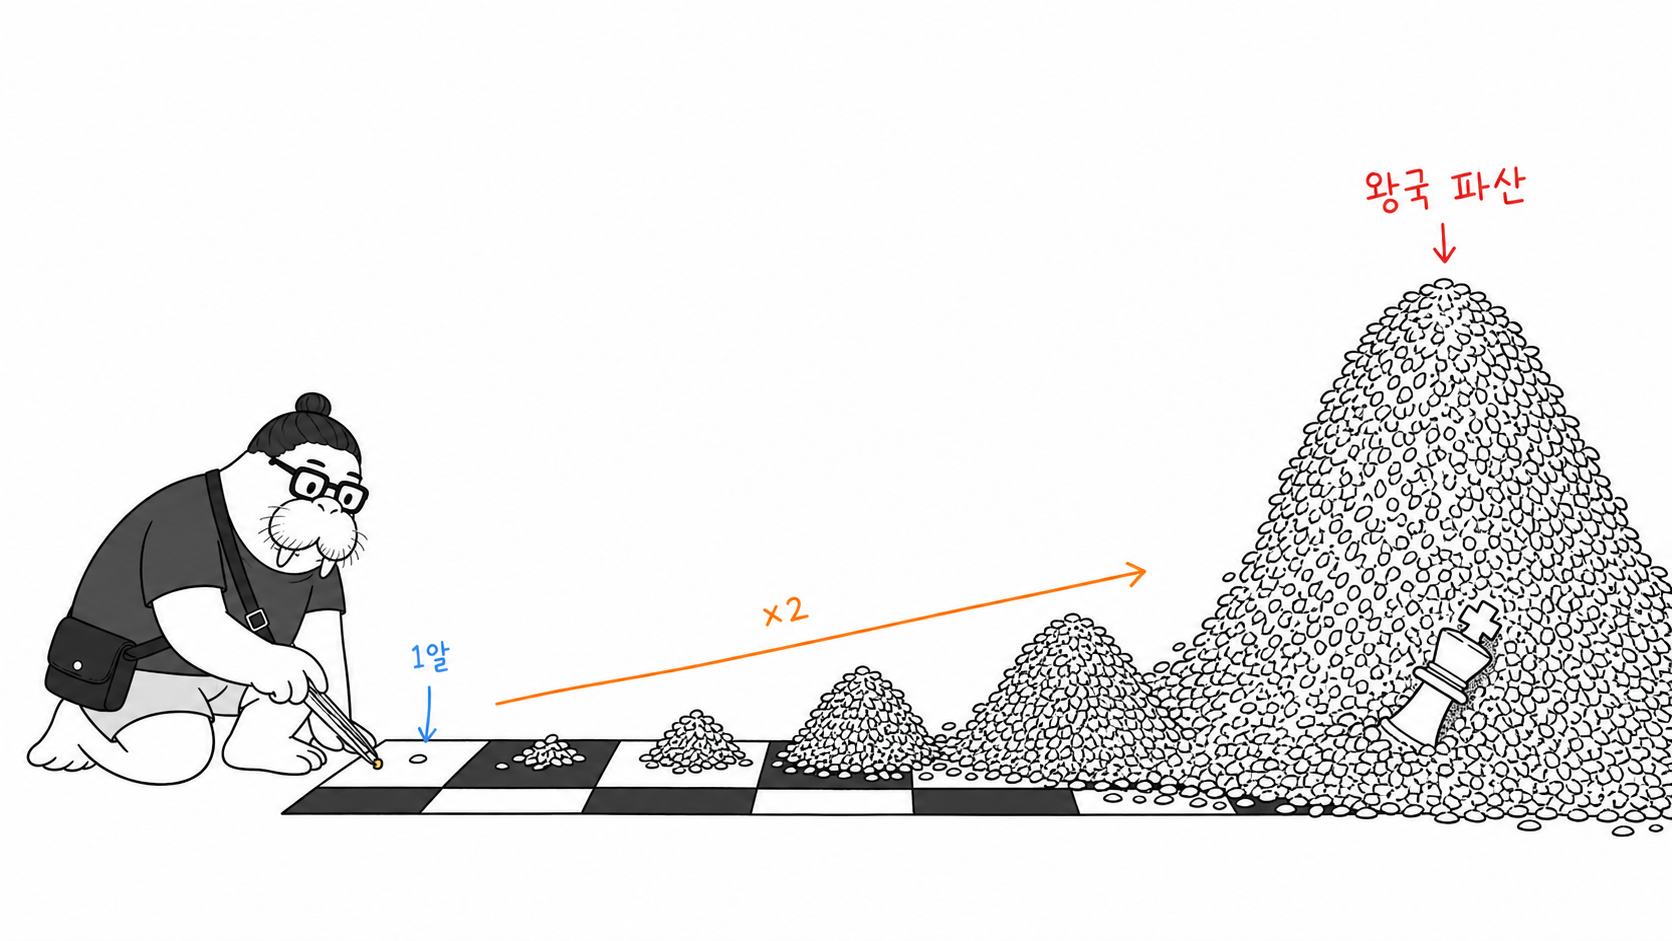
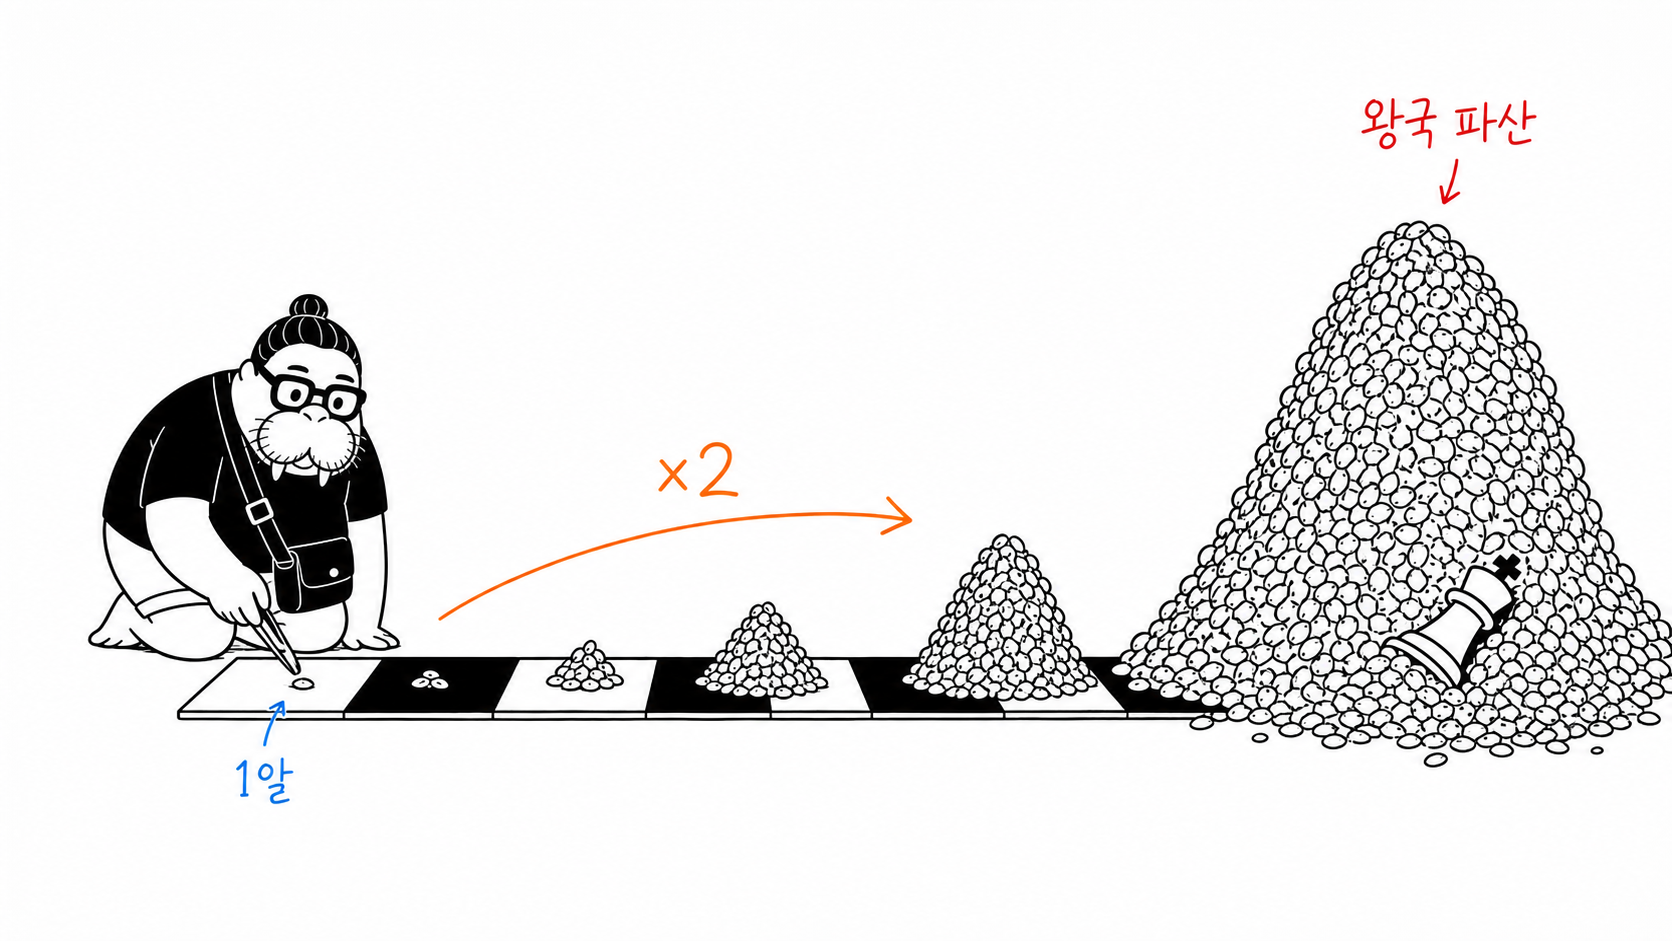
dkdk-illustrations: ink-style examples, annotation-color exception clause in prompt template

diff --git a/dkdk-illustrations/references/prompt-template.md b/dkdk-illustrations/references/prompt-template.md
@@ -38,10 +38,13 @@ Constraints:
 One image explains only one core structure. Keep the main subject around 40%-60% of the canvas. Preserve at least 35% blank white space. Use at most 3-6 short handwritten Korean labels — fewer labels means fewer typos; Korean text must be spelled exactly as given. Do not write a title in the top-left corner. Do not write the structure type on the image. Do not make it a formal diagram, course slide, or dense explainer. Invent a fresh visual metaphor for this specific article; do not copy prior compositions. It should be clear but not instructional, interesting but not childish, strange but clean.
 
 Character identity reference:
-The attached image is the official dkdk character model sheet. Match the character EXACTLY as drawn there — especially the face: dot eyes placed INSIDE the glasses lenses, the large rounded muzzle mass occupying the lower half of the face, the dense neatly-groomed whisker/beard mass (not sparse individual whisker lines), tusk shape and placement, head proportions, man-bun size. Only translate the rendering into loose hand-drawn ink sketch linework to match the illustration style; do not change any anatomical proportions or facial layout.
+The attached image is the official dkdk character model sheet (pure black-and-white ink). Match the character EXACTLY as drawn there — especially the face: dot eyes placed INSIDE the glasses lenses, the large rounded muzzle mass occupying the lower half of the face, the dense neatly-groomed whisker/beard mass (not sparse individual whisker lines), tusk shape and placement, head proportions, and the man-bun at the same relative size as the sheet (solid black with a visible hairline — not a tiny knob). The crossbody bag stays solid black; where black elements overlap, separate them with thin white outline lines only. Keep the two-value ink rendering with loose hand-drawn linework for the CHARACTER and SCENE; do not change any anatomical proportions or facial layout.
+
+Annotation colors (STRICT — the black-and-white rule applies ONLY to the character and scene linework, NOT to the annotations):
+The handwritten Korean labels and arrows MUST keep their assigned colors from the "Color use" section above — blue/orange/red. Do not render them in black.
 ```
 
-마지막 "Character identity reference" 블록은 고정 문구다 — 모델시트를 `-i`로 첨부할 때 항상 프롬프트에 포함시킨다.
+마지막 두 블록("Character identity reference", "Annotation colors")은 고정 문구다 — 모델시트를 `-i`로 첨부할 때 항상 프롬프트에 포함시킨다. 특히 Annotation colors 블록을 빼먹으면 흑백 잉크 지시가 라벨 색까지 집어삼킨다 (실측 gotcha).
 
 ## 수정 반복 프롬프트
 
